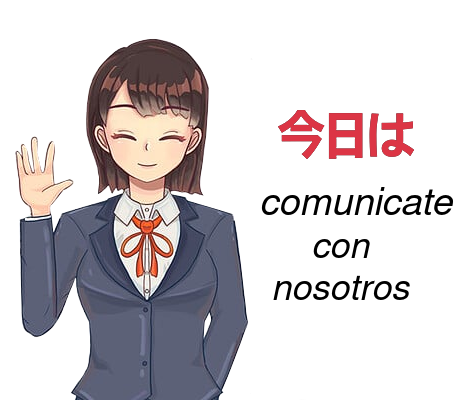
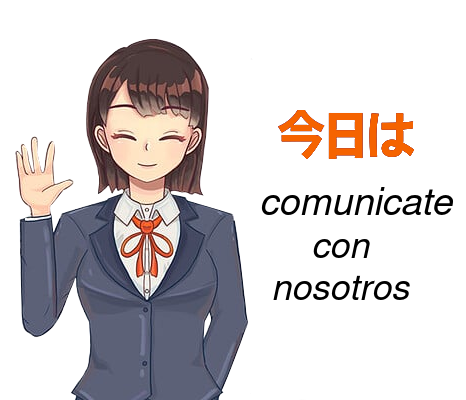
Corrigiendo diseño de sección Contacto

Changed region(s): [[0.6009, 0.27, 0.9013, 0.42]]

diff --git a/contacto.html b/contacto.html
@@ -60,7 +60,7 @@
                 </div>
               </div>
               <div class="row h-50">
-                <div class="col col-12 col-lg-6 bg-danger contact-info">
+                <div class="col col-12 col-lg-6 contact-number contact-info">
                   <i class="fa fa-whatsapp text-white" aria-hidden="true"> +543815673097</i>
                 </div>
                 <div class="col col-12 col-lg-6 p-0 contact-map">
@@ -123,7 +123,9 @@
                   ></textarea>
                 </div>
                 <div>
-                  <button class="btn form-button btn-danger btn-block">Enviar</button>
+                  <button class="btn form-button font-weight-bold btn-orange btn-block">
+                    Enviar
+                  </button>
                   <small class="text-muted font-italic">(*) Campos obligatorios</small>
                 </div>
               </form>

diff --git a/styles.css b/styles.css
@@ -136,7 +136,7 @@ body {
   color: white;
 }
 
-.btn-orange{
+.btn-orange {
   background-color: #f56300;
   color: white;
 }
@@ -153,7 +153,11 @@ textarea.form-control::placeholder {
   height: 10px;
   border: none;
   margin-left: 0;
-  background-color: #dc3545;
+  background-color: #f56300;
+}
+
+.contact-number {
+  background-color: #f56300;
 }
 
 .contact-info {
